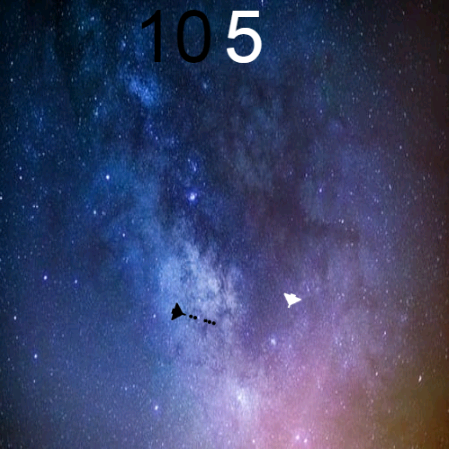
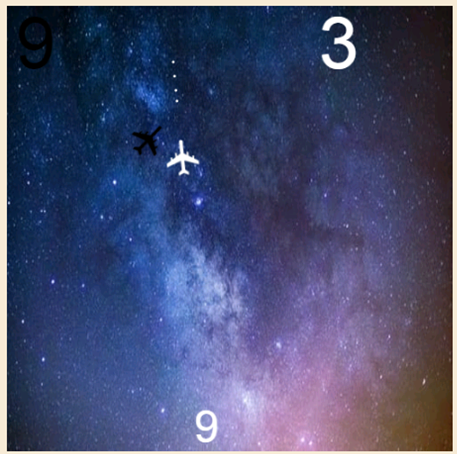
updated jets, timer and speed

diff --git a/Jet.js b/Jet.js
@@ -6,7 +6,7 @@ class Jet {
     this.image = image;
     
     this.angle = 0;
-    this.speed = 1.5;
+    this.speed = 2;
     
     
     this.rotateAmount = 0;
@@ -33,7 +33,7 @@ class Jet {
     let enemyBullets = enemyPlayer.bullets;
     // I use 10 as the radius for the ship, you can tweak it
     for (let i = enemyBullets.length - 1; i >= 0; i--) {
-    	if (dist(this.x, this.y, enemyBullets[i].x, enemyBullets[i].y) < (10 + enemyBullets[i].r)){ 
+    	if (dist(this.x, this.y, enemyBullets[i].x, enemyBullets[i].y) < (15 + enemyBullets[i].r)){ 
         enemyBullets.splice(i, 1);
         enemyPlayer.score++;
       }
@@ -86,7 +86,7 @@ class Jet {
       this.bullets[i].update();
     	this.bullets[i].draw(); 
       
-      if (this.bullets[i].timeAlive > 200) {
+      if (this.bullets[i].timeAlive > 70) {
       	this.bullets.splice(i, 1);
       }
     }

diff --git a/index.html b/index.html
@@ -33,6 +33,6 @@
         <li>use the spacebar key to shoot bullets.</li>
     </ul>
 
-    <p>This game is created using p5 library of javascript ("p5.js"). You can see more about p5 library of javascript <a href="https://p5js.org/">here</a>.</p>
+    <p>This game is created by Yash Jain using p5 library of javascript ("p5.js"). You can see more about p5 library of javascript <a href="https://p5js.org/">here</a>.</p>
     
 </body>

diff --git a/Bullet.js b/Bullet.js
@@ -4,7 +4,7 @@ class Bullet {
     this.y = y;
     this.angle = angle;
     this.isWhite = isWhite;
-    this.speed = 2;
+    this.speed = 4;
     this.r = 1.5;
     // this bugger was added
     this.timeAlive = 0;

diff --git a/sketch.js b/sketch.js
@@ -40,6 +40,7 @@ function draw() {
   if(timer<=0)
   {
     noLoop();
+    background(0,0,0,0,5)
     textSize(50);
     fill(255);
     text("Game Over", 100, 250);
